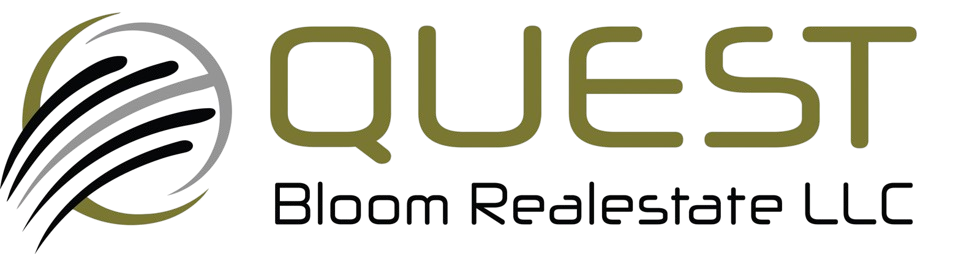
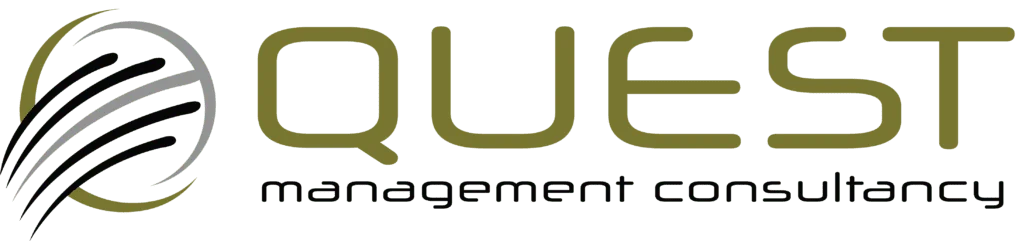
changes done again

Changed region(s): [[0.0, 0.029, 1.0, 0.9876], [0.2449, 0.6971, 0.9796, 0.9004]]

diff --git a/src/components/modals/Mobilemenu.jsx b/src/components/modals/Mobilemenu.jsx
@@ -1,8 +1,8 @@
 import {
-  blogPages,
+  bankingAssistance,
   homepages,
   otherPages,
-  servicePages,
+  businessSetupInFreeZone,
   shopPages,
 } from "@/data/menu";
 
@@ -21,7 +21,7 @@ export default function Mobilemenu() {
         <Link to={`/`} className="logo">
           <img
             alt="logo"
-            src="/images/logo/footer-logo.png"
+            src="/images/qb/questBloomTransparent.png"
             width={390}
             height={80}
           />
@@ -34,81 +34,27 @@ export default function Mobilemenu() {
         <div className="mb-body">
           <div className="mb-content-top">
             <ul className="nav-ul-mb" id="wrapper-menu-navigation">
-              <li
+               <li
                 className={`nav-mb-item ${
-                  isActiveParent(homepages) ? "active" : ""
+                  isActive("/") ? "active" : ""
                 }`}
               >
-                <a
-                  href="#dropdown-menu-home"
-                  className="collapsed mb-menu-link"
-                  data-bs-toggle="collapse"
-                  aria-expanded="true"
-                  aria-controls="dropdown-menu-home"
-                >
-                  <span>Home</span>
-                  <span className="btn-open-sub" />
-                </a>
-                <div
-                  id="dropdown-menu-home"
-                  className="collapse"
-                  data-bs-parent="#menu-mobile"
-                >
-                  <ul className="sub-nav-menu">
-                    {homepages.map((item, index) => (
-                      <li key={index}>
-                        <Link
-                          to={item.href}
-                          className={`sub-nav-link ${
-                            isActive(item.href) ? "active" : ""
-                          }`}
-                        >
-                          {item.title}
-                        </Link>
-                      </li>
-                    ))}
-                  </ul>
-                </div>
+                <Link to={`/`} className="mb-menu-link">
+                  Home
+                </Link>
               </li>
               <li
                 className={`nav-mb-item ${
-                  isActiveParent(otherPages) ? "active" : ""
+                  isActive("/business-setup-dubai-mainland") ? "active" : ""
                 }`}
               >
-                <a
-                  href="#dropdown-menu-pages"
-                  className="collapsed mb-menu-link"
-                  data-bs-toggle="collapse"
-                  aria-expanded="true"
-                  aria-controls="dropdown-menu-pages"
-                >
-                  <span>Pages</span>
-                  <span className="btn-open-sub" />
-                </a>
-                <div
-                  id="dropdown-menu-pages"
-                  className="collapse"
-                  data-bs-parent="#menu-mobile"
-                >
-                  <ul className="sub-nav-menu">
-                    {otherPages.map((item) => (
-                      <li key={item.href}>
-                        <Link
-                          to={item.href}
-                          className={`sub-nav-link ${
-                            isActive(item.href) ? "active" : ""
-                          }`}
-                        >
-                          {item.label}
-                        </Link>
-                      </li>
-                    ))}
-                  </ul>
-                </div>
+                <Link to={`/business-setup-dubai-mainland`} className="mb-menu-link">
+                  Business Setup in Dubai Mainland
+                </Link>
               </li>
               <li
                 className={`nav-mb-item ${
-                  isActiveParent(servicePages) ? "active" : ""
+                  isActiveParent(businessSetupInFreeZone) ? "active" : ""
                 }`}
               >
                 <a
@@ -118,7 +64,7 @@ export default function Mobilemenu() {
                   aria-expanded="true"
                   aria-controls="dropdown-menu-services"
                 >
-                  <span>Serivce</span>
+                  <span>Business Setup in Free Zone</span>
                   <span className="btn-open-sub" />
                 </a>
                 <div
@@ -127,7 +73,7 @@ export default function Mobilemenu() {
                   data-bs-parent="#menu-mobile"
                 >
                   <ul className="sub-nav-menu">
-                    {servicePages.map((item) => (
+                    {businessSetupInFreeZone.map((item) => (
                       <li key={item.href}>
                         <Link
                           to={item.href}
@@ -144,7 +90,7 @@ export default function Mobilemenu() {
               </li>
               <li
                 className={`nav-mb-item ${
-                  isActiveParent(blogPages) ? "active" : ""
+                  isActiveParent(bankingAssistance) ? "active" : ""
                 }`}
               >
                 <a
@@ -154,7 +100,7 @@ export default function Mobilemenu() {
                   aria-expanded="true"
                   aria-controls="dropdown-menu-blog"
                 >
-                  <span>Blog</span>
+                  <span>Banking Assistance</span>
                   <span className="btn-open-sub" />
                 </a>
                 <div
@@ -163,7 +109,7 @@ export default function Mobilemenu() {
                   data-bs-parent="#menu-mobile"
                 >
                   <ul className="sub-nav-menu">
-                    {blogPages.map((item) => (
+                    {bankingAssistance.map((item) => (
                       <li key={item.href}>
                         <Link
                           to={item.href}
@@ -178,43 +124,16 @@ export default function Mobilemenu() {
                   </ul>
                 </div>
               </li>
-              <li
+               <li
                 className={`nav-mb-item ${
-                  isActiveParent(shopPages) ? "active" : ""
+                  isActive("/other-services") ? "active" : ""
                 }`}
               >
-                <a
-                  href="#dropdown-menu-shop"
-                  className="collapsed mb-menu-link"
-                  data-bs-toggle="collapse"
-                  aria-expanded="true"
-                  aria-controls="dropdown-menu-shop"
-                >
-                  <span>Shop</span>
-                  <span className="btn-open-sub" />
-                </a>
-                <div
-                  id="dropdown-menu-shop"
-                  className="collapse"
-                  data-bs-parent="#menu-mobile"
-                >
-                  <ul className="sub-nav-menu">
-                    {shopPages.map((item) => (
-                      <li key={item.href}>
-                        <Link
-                          to={item.href}
-                          className={`sub-nav-link ${
-                            isActive(item.href) ? "active" : ""
-                          }`}
-                        >
-                          {item.label}
-                        </Link>
-                      </li>
-                    ))}
-                  </ul>
-                </div>
+                <Link to={`/other-services`} className="mb-menu-link">
+                  Other Services
+                </Link>
               </li>
-              <li
+               <li
                 className={`nav-mb-item ${
                   isActive("/contact-us") ? "active" : ""
                 }`}
@@ -223,6 +142,7 @@ export default function Mobilemenu() {
                   Contact
                 </Link>
               </li>
+             
             </ul>
           </div>
           <div className="mb-other-content">
@@ -235,7 +155,7 @@ export default function Mobilemenu() {
                     href="https://www.google.com/maps?q=16/9,ScotlandUnitedKingdom"
                   >
                     <span className="fw-5 text_mono-gray-5">
-                      16/9, Scotland United Kingdom
+                      Office 1004, 10th Floor, Bayswater,<br/> Business Bay, Dubai-UAE
                     </span>
                   </a>
                 </p>
@@ -243,9 +163,9 @@ export default function Mobilemenu() {
               <li>
                 <p className="text_mono-gray">
                   Email:
-                  <a href="mailto:themesflat@gmail.com">
+                  <a href="mailto:info@questmanagement.ae">
                     <span className="fw-5 text_mono-gray-5">
-                      themesflat@gmail.com
+                      info@questmanagement.ae
                     </span>
                   </a>
                 </p>
@@ -255,7 +175,7 @@ export default function Mobilemenu() {
                   Phone:
                   <a href="tel:+11635565389">
                     <span className="fw-5 text_mono-gray-5">
-                      +1 16355 65389
+                      +971 564 065 672
                     </span>
                   </a>
                 </p>

diff --git a/src/components/headers/Nav.jsx b/src/components/headers/Nav.jsx
@@ -19,7 +19,7 @@ export default function Nav() {
     <>
       {" "}
       <li className={`${isActiveParent(homepages) ? "current-menu" : ""} `}>
-        <a href="#">Home</a>
+        <a href="/">Home</a>
         {/* <div className="submenu mega-menu">
           <div className="wrap-demo-item tf-grid-layout-lg lg-col-3">
             {homepages.map((item, index) => (
@@ -57,7 +57,7 @@ export default function Nav() {
           isActiveParent(otherPages) ? "current-menu" : ""
         } `}
       >
-        <a href="#">Business Setup in Dubai Mainland</a>
+        <a href="/business-setup-dubai-mainland">Business Setup in Dubai Mainland</a>
         {/* <ul className="submenu">
           {otherPages.map((item) => (
             <li
@@ -109,15 +109,15 @@ export default function Nav() {
           ))}
         </ul>
       </li>
-      <li className={` ${isActive("/contact-us") ? "current-menu" : ""} `}>
-        <Link to={`/contact-us`}>Other Services</Link>
+      <li className={` ${isActive("/other-services") ? "current-menu" : ""} `}>
+        <Link to={`/other-services`}>Other Services</Link>
       </li>
       <li
         className={` position-relative ${
           isActiveParent(shopPages) ? "current-menu" : ""
         } `}
       >
-        <a href="#">Contact Us</a>
+        <a href="/contact-us">Contact Us</a>
         {/* <ul className="submenu">
           {shopPages.map((item) => (
             <li

diff --git a/src/App.jsx b/src/App.jsx
@@ -31,6 +31,8 @@ import CartPage from "./pages/shop/cart";
 import CheckoutPage from "./pages/shop/checkout";
 import ContactUsPage from "./pages/otherPages/contact-us";
 import CompanyLiquidation from "./components/otherPages/CompanyLiquidation";
+import BusinessSetupDubaiMainland from "./components/otherPages/BusinessSetupDubaiMainland";
+import OtherServices from "./components/otherPages/OtherServices";
 function App() {
   return (
     <>
@@ -86,6 +88,8 @@ function App() {
                 <Route path="checkout" element={<CheckoutPage />} />
                 <Route path="contact-us" element={<ContactUsPage />} />
                 <Route path="company-liquidation" element={<CompanyLiquidation />} />
+                <Route path="business-setup-dubai-mainland" element={<BusinessSetupDubaiMainland />} />
+                <Route path="other-services" element={<OtherServices />} />
 
 
                 <Route path="*" element={<NotFoundPage />} />

diff --git a/public/scss/_sections.scss b/public/scss/_sections.scss
@@ -855,7 +855,8 @@
     overflow: hidden;
     position: absolute;
     width: 100%;
-    bottom: 0;
+    // bottom: 0;
+    bottom: -1px;
     svg {
       width: calc(200% + 1.3px);
       display: block;
@@ -863,12 +864,14 @@
       position: relative;
       transform: translateX(-50%);
       path {
-        fill: #f7f2e9;
+        // fill: #f7f2e9;
+         fill: #fff;
       }
     }
   }
   .shape-2 {
-    top: 44.2%;
+    // top: 44.2%;
+    top: 35%;
     left: 24.5%;
     overflow: hidden;
     height: 114px;

diff --git a/public/scss/_widgets.scss b/public/scss/_widgets.scss
@@ -785,7 +785,8 @@
     }
     .author {
       padding: 37px 24px 38px;
-      background-color: #505050;
+      // background-color: #505050;
+     background-color: rgba(80, 80, 80,0.3);
       border-radius: 12px;
     }
   }
@@ -1204,7 +1205,8 @@
 
 .choice-item {
   display: flex;
-  min-height: 596px;
+  // min-height: 596px;
+  min-height: 400px;
   justify-content: space-between;
   overflow: hidden;
   border-radius: 24px;

diff --git a/public/scss/abstracts/_variable.scss b/public/scss/abstracts/_variable.scss
@@ -22,7 +22,8 @@ $fontIcon: "icomoon";
     --Sub-color-1: #f2f6ff;
     --Sub-color-2: #e0eae8;
     --Sub-color-3: #458182;
-    --Color-text-1: #6ef193;
+    // --Color-text-1: #6ef193;
+    --Color-text-1: #797631;
     --Color-text-2: #9da5b4;
     --Color-text-3: #9da5b4;
     --Border: #dee3ee;

diff --git a/public/scss/_responsive.scss b/public/scss/_responsive.scss
@@ -613,8 +613,10 @@
         width: 100%;
       }
     }
-    padding-top: 618px;
-    margin-top: -521px;
+    // padding-top: 618px;
+    // margin-top: -521px;
+ padding-top: 430px;
+    margin-top: -340px;
   }
   .section-about {
     &.style-1 {
